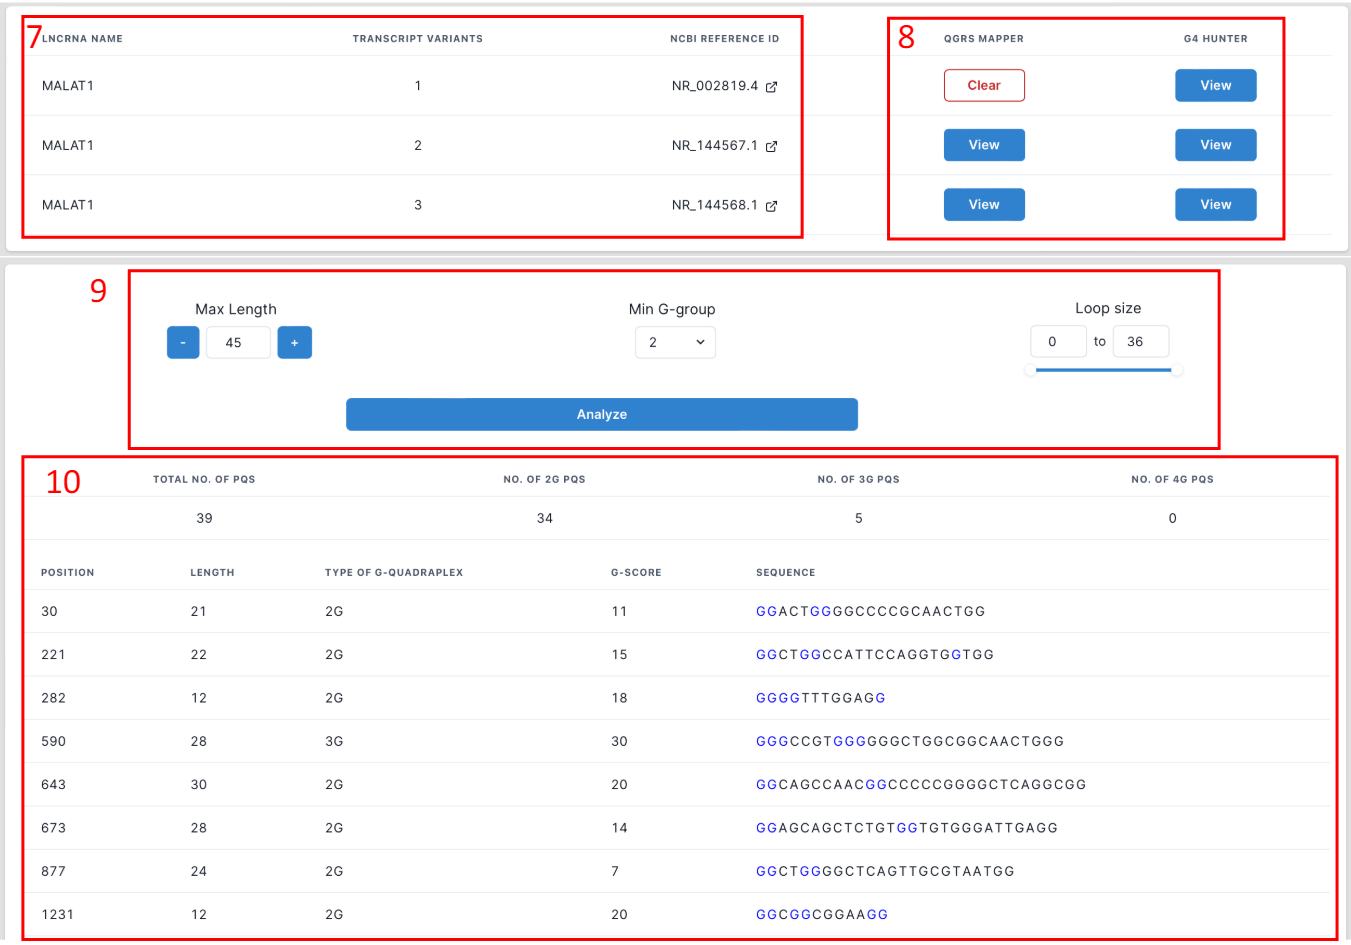
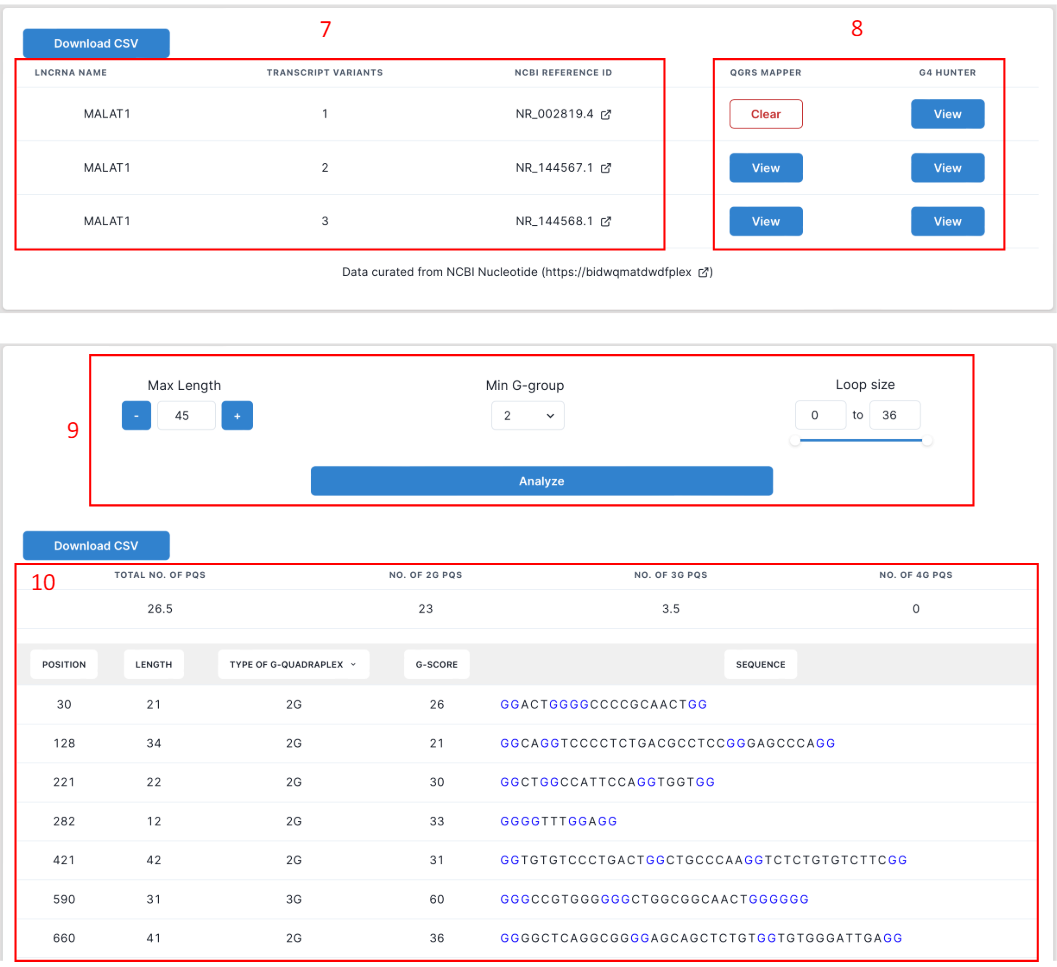
citation in g4

diff --git a/app/g4prediction/page.tsx b/app/g4prediction/page.tsx
@@ -949,13 +949,13 @@ const G4Prediction = () => {
 
               
                 <CardBody sx={{ textAlign: "center" }}>
-                  Data curated from NCBI Nucleotide (
+                Data curated from NCBI Nucleotide (
                   <Link
-                    href="https://www.ncbi.nlm.nih.gov/nucleotide/"
+                    href="https://www.ncbi.nlm.nih.gov/nucleotide"
                     target="_blank"
                     isExternal
                   >
-                    https://bidwqmatdwdfplex
+                    https://www.ncbi.nlm.nih.gov/nucleotide
                     <ExternalLinkIcon sx={{ ml: 2 }} />
                   </Link>
 

diff --git a/app/contact/page.tsx b/app/contact/page.tsx
@@ -70,7 +70,7 @@ const Contact = () => {
               src="/people/shubam.jpg"
             />
             <center>
-              <Text sx={{ fontSize: 18, mt: 3 }}>Dr. Shubham Sharma <br></br>(Lead project ideator, data curator, and analyzer)</Text>
+              <Text sx={{ fontSize: 18, mt: 3 }}>Dr. Shubham Sharma <br></br>(Lead project ideator, data curator, and analyser)</Text>
               <Text sx={{ fontSize: 15 }}>Department of Biological Sciences and Engineering
                 <br></br>
                 Indian Institute of Technology Gandhinagar (IITGN), India</Text>
